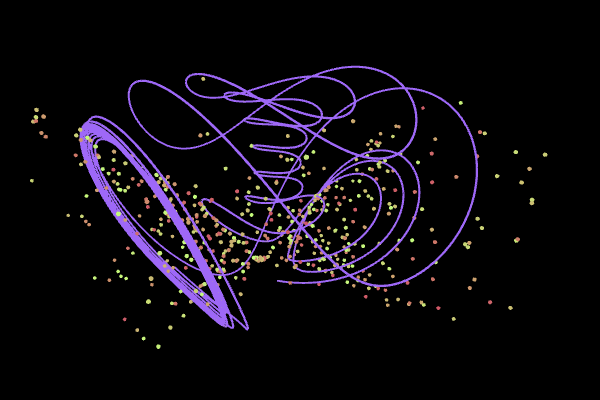
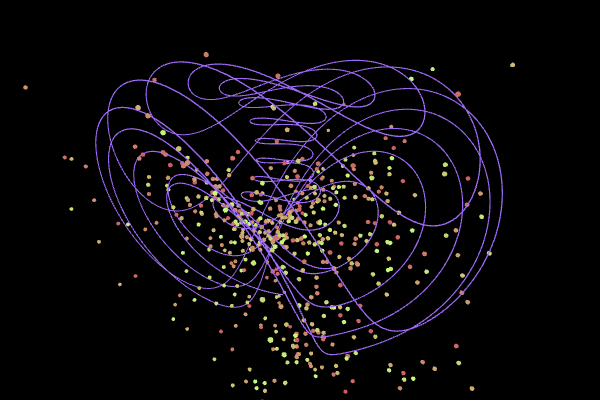
new

diff --git a/strange-attractors/index.html b/strange-attractors/index.html
@@ -264,7 +264,7 @@
                     <p><b>Three-Scroll Unified Chaotic System attractor</b></p>
                     <p>Parameter:</p>
                     <div class="w3-center">
-                        <p>$a = 40,$ $b = 55,$ $c = 11/6,$ <br> $d = 0.16,$ $e = 0.65$, $f = 20$</p>
+                        <p>$a = 32.48,$ $b = 45.84,$ $c = 1.18,$ <br> $d = 0.13,$ $e = 0.57$, $f = 14.7$</p>
                     </div>
                     <p>System:</p>
                     <p> $$\left\{ \begin{eqnarray*}
